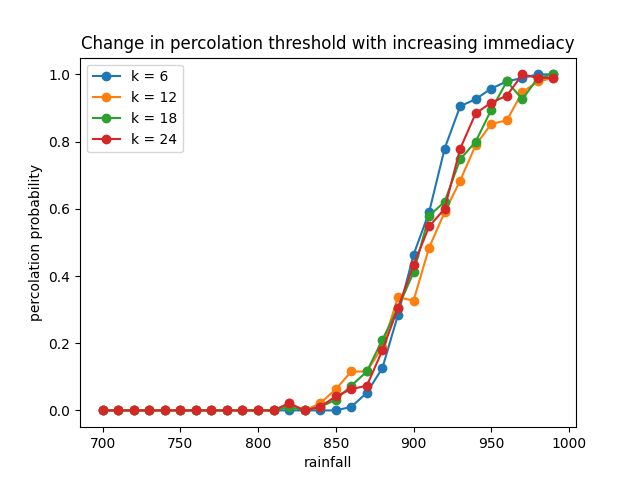
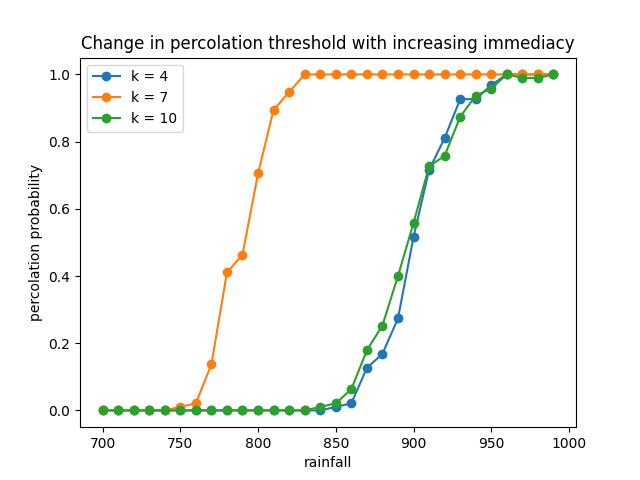
Init repo for sim on 211

diff --git a/terminal.py b/terminal.py
@@ -29,13 +29,25 @@ from utils import load_automaton_data
 if __name__ == '__main__':
     set_start_method("spawn")
     num_simulations = cpu_count() - 1
-    p_values = [0.66, 0.67, 0.68, 0.69, 0.71]
-    q = 0
 
-    for p in p_values:
-        purge_data()
-        print(f"\n---> Simulating p = {p} <---")
-        file_string = str(p).replace('.', 'p')
-        tricritical(p, q, num_simulations, save_series=False, save_cluster=True)
-        compile_changes("tricritical", range(num_simulations), plot_name=file_string)
-        plot_changes(file_string)
+    immediacy_values = [4, 6, 8, 10]
+    r_value = 12
+
+    output_path = path.join(path.dirname(__file__), "outputs")
+    makedirs(output_path, exist_ok=True)
+
+    for immediacy in immediacy_values:
+        rainfall_values = arange(700, 1200, 10)
+
+        percolation_probablities = zeros(len(rainfall_values), dtype=float)
+        avg_densities = zeros(len(rainfall_values), dtype=float)
+
+        for i in range(len(rainfall_values)):
+            avg_densities[i], percolation_probablities[i] = scanlon_kalahari_spanning(rainfall_values[i], r_value, immediacy, num_simulations)
+
+        output_string = ""
+        for i in range(len(rainfall_values)):
+            output_string += f"{rainfall_values[i]} {avg_densities[i]:.6f} {percolation_probablities[i]:.6f}\n"
+
+        with open(path.join(output_path, f"{immediacy}.txt"), "w") as f:
+            f.write(output_string)

diff --git a/models/scanlon_kalahari/spanning_cluster.py b/models/scanlon_kalahari/spanning_cluster.py
@@ -109,12 +109,18 @@ def has_spanning_cluster(lattice):
     labelled_lattice = label(lattice, connectivity=1, background=0)
     num_labels = labelled_lattice.max()
 
-    for i in range(1, num_labels + 1):
-        if row_has_cluster(labelled_lattice, 0, i) and row_has_cluster(labelled_lattice, length - 1, i):
-            if col_has_cluster(labelled_lattice, 0, i) and col_has_cluster(labelled_lattice, length - 1, i):
-                return True
+    if num_labels == 0:
+        return False
+    
+    sizes = [sum(labelled_lattice == i) for i in range(1, num_labels + 1)]
+    biggest_cluster = sizes.index(max(sizes)) + 1
 
-    return False
+    if row_has_cluster(labelled_lattice, 0, biggest_cluster) and row_has_cluster(labelled_lattice, length - 1, biggest_cluster):
+        return True
+    elif col_has_cluster(labelled_lattice, 0, biggest_cluster) and col_has_cluster(labelled_lattice, length - 1, biggest_cluster):
+        return True
+    else:
+        return False
 
 
 def scanlon_kalahari(rainfall_ext, radius_ext, immediacy_ext, num_parallel = 10):

diff --git a/thesis_code/scanlon_transitions/percolation_thresholds_k.py b/thesis_code/scanlon_transitions/percolation_thresholds_k.py
@@ -9,7 +9,7 @@ if __name__ == '__main__':
     project_root_path = path.join(current_path, "..", "..")
     results_root_path = path.join(project_root_path, "results", "scanlon_kalahari")
 
-    k_values = [6, 12, 18, 24]
+    k_values = [4, 7, 10]
 
     plt.figure()
     plt.title("Change in percolation threshold with increasing immediacy")
